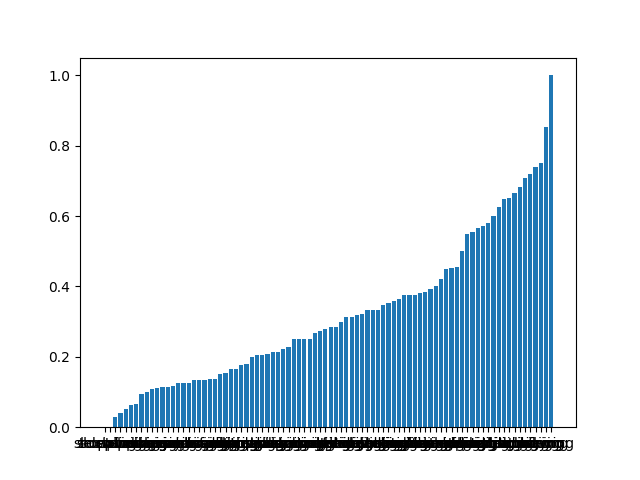
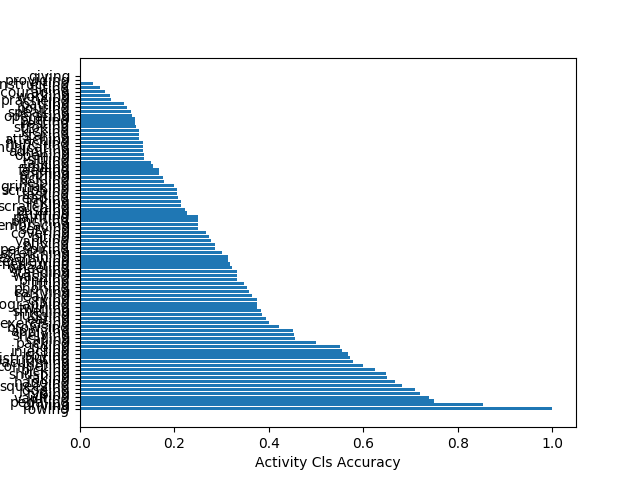
horizontal aggregate plot

Changed region(s): [[0.0, 0.125, 0.9062, 1.0]]

diff --git a/lib/plots.py b/lib/plots.py
@@ -10,8 +10,15 @@ def plot_accuracy_per_activity(accuracies_per_activity, encoder):
     activities_ordered = [encoder.decode_verb(index) for index in indices_ordered]
     activity_acc_sorted = numpy.sort(accuracies_per_activity).tolist()
     min_index = len(activity_acc_sorted) - activity_acc_sorted[::-1].index(-1)
-    shifted_indices = [i for i in range(min_index, len(activity_acc_sorted))]
-    plt.bar(shifted_indices, activity_acc_sorted[min_index:])
-    plt.xticks(shifted_indices, activities_ordered)
-    #plt.plot([i for i in range(len(accuracies_per_activity))], accuracies_per_activity, '-o')
+    shifted_indices = [i for i in range(0, len(activity_acc_sorted)-min_index)]
+
+    plt.rcdefaults()
+    fig, ax = plt.subplots()
+    ax.barh(shifted_indices, activity_acc_sorted[min_index:])
+    ax.set_yticks(shifted_indices)
+    ax.set_yticklabels(activities_ordered[min_index:])
+    ax.invert_yaxis()  # labels read top-to-bottom
+    ax.set_xlabel('Activity Cls Accuracy')
+    #plt.bar(shifted_indices, activity_acc_sorted[min_index:])
+    #plt.xticks(shifted_indices, activities_ordered)
     plt.savefig("figures/acc_per_activity")
